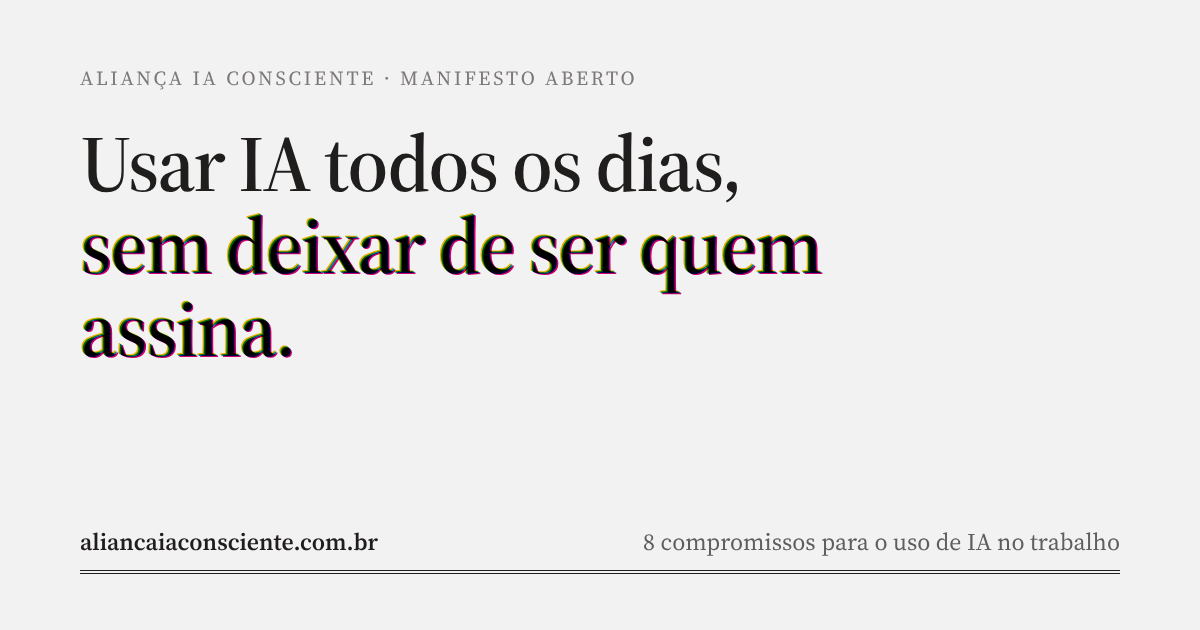
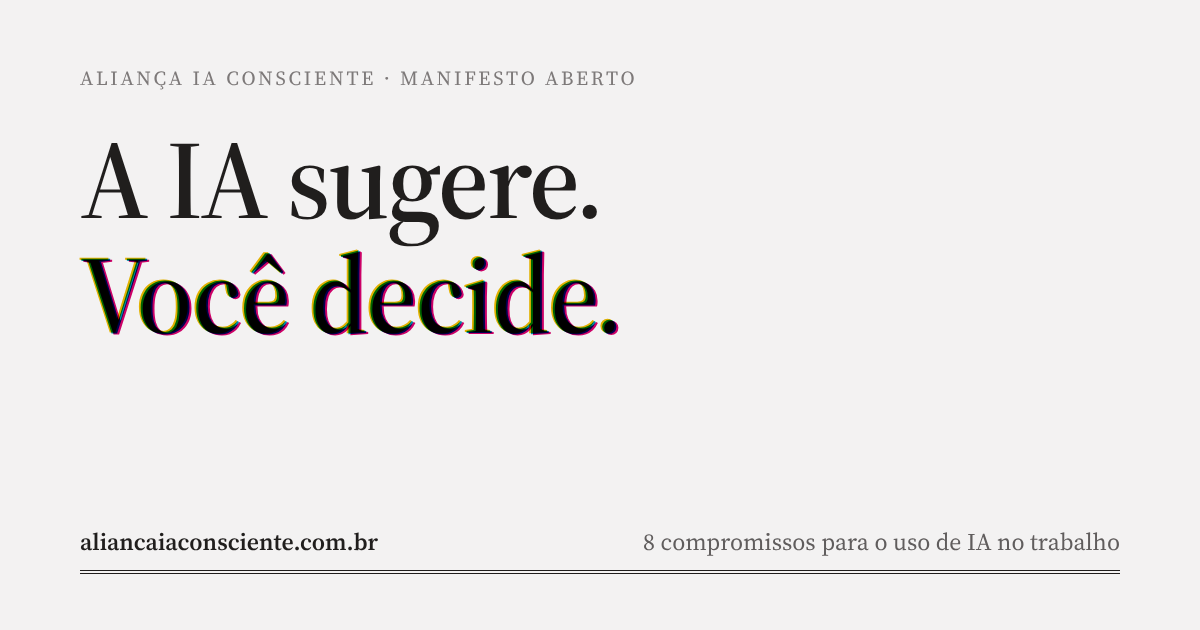
Frase principal: "A IA sugere. Você decide."
- Novo título no topo do site, com o efeito de impressão em
  "Você decide."
- Subtítulo ajustado para não repetir "decide": frequência, método e
  comunicação
- Imagem de compartilhamento, og:description, og:image:alt e JSON-LD
  com a frase nova
- README e MANIFESTO com a frase nova
- Menu no celular: nome numa linha só, sem rolagem lateral de 320 a
  414 px

Claude-Session: https://claude.ai/code/session_017bn4kNo9FBVA544PCgiZbR

Changed region(s): [[0.0617, 0.2111, 0.7092, 0.573]]

diff --git a/site/public/index.html b/site/public/index.html
@@ -16,11 +16,11 @@
 <meta property="og:locale" content="pt_BR">
 <meta property="og:url" content="https://aliancaiaconsciente.com.br/">
 <meta property="og:title" content="Aliança IA Consciente">
-<meta property="og:description" content="Usar IA todos os dias, sem deixar de ser quem assina. Manifesto aberto para adesão de empresas de tecnologia.">
+<meta property="og:description" content="A IA sugere. Você decide. Manifesto aberto para adesão de empresas de tecnologia.">
 <meta property="og:image" content="https://aliancaiaconsciente.com.br/og-image.png">
 <meta property="og:image:width" content="1200">
 <meta property="og:image:height" content="630">
-<meta property="og:image:alt" content="Usar IA todos os dias, sem deixar de ser quem assina. Aliança IA Consciente.">
+<meta property="og:image:alt" content="A IA sugere. Você decide. Aliança IA Consciente.">
 <meta name="twitter:card" content="summary_large_image">
 <meta name="twitter:title" content="Aliança IA Consciente">
 <meta name="twitter:description" content="Oito compromissos para usar IA no trabalho com frequência, método e consciência.">
@@ -51,7 +51,7 @@
       "@type": "CreativeWork",
       "@id": "https://aliancaiaconsciente.com.br/#manifesto",
       "name": "Manifesto da Aliança IA Consciente",
-      "headline": "Usar IA todos os dias, sem deixar de ser quem assina.",
+      "headline": "A IA sugere. Você decide.",
       "url": "https://github.com/marcosmhs/alianca-ia-consciente/blob/main/MANIFESTO.md",
       "inLanguage": "pt-BR",
       "datePublished": "2026-11-02",
@@ -145,7 +145,8 @@ a{color:var(--cyan-text);text-underline-offset:3px}
 .btn:hover{filter:brightness(1.08)}
 .btn:disabled{opacity:.55;cursor:progress}
 .btn.ghost{background:transparent;border-color:transparent;color:var(--cyan-text);padding-inline:6px}
-@media (max-width:720px){ .nav a.link,.nav .btn{display:none} .top-in{flex-wrap:nowrap} }
+@media (max-width:720px){ .nav a.link,.nav .btn{display:none} .top-in{flex-wrap:nowrap} .top-in{gap:8px} .brand{font-size:.95rem;white-space:nowrap} .theme button{padding:4px 6px} }
+@media (max-width:370px){ .top-in{flex-wrap:wrap} .brand{white-space:normal} }
 
 /* Hero */
 .hero{padding-block:88px 40px}
@@ -276,8 +277,8 @@ footer .wrap{display:flex;flex-wrap:wrap;justify-content:space-between;gap:8px 2
   <div class="wrap">
     <section class="hero" aria-labelledby="titulo">
       <p class="eyebrow">Manifesto · Rascunho v0.1 · Aberto para adesão</p>
-      <h1 id="titulo">Usar IA todos os dias, <span class="plates" data-text="sem deixar de ser quem assina.">sem deixar de ser quem assina.</span></h1>
-      <p class="lead">Um compromisso entre empresas de tecnologia para adotar inteligência artificial com frequência, método e consciência, mantendo as pessoas como autoras do que comunicam e responsáveis pelo que decidem.</p>
+      <h1 id="titulo">A IA sugere.<br><span class="plates" data-text="Você decide.">Você decide.</span></h1>
+      <p class="lead">Um compromisso entre empresas de tecnologia para usar inteligência artificial todos os dias, com método e consciência, sem deixar que ela fale pelas pessoas.</p>
       <div class="cta">
         <a class="btn" href="#participar">Inscrever minha empresa</a>
         <a class="btn ghost" href="#compromissos">Ler os oito compromissos</a>

diff --git a/README.md b/README.md
@@ -1,6 +1,6 @@
 # Aliança IA Consciente
 
-**Usar IA todos os dias, sem deixar de ser quem assina.**
+**A IA sugere. Você decide.**
 
 Um compromisso entre empresas de tecnologia para adotar inteligência artificial com frequência, método e consciência, mantendo as pessoas como autoras do que comunicam e responsáveis pelo que decidem.
 

diff --git a/MANIFESTO.md b/MANIFESTO.md
@@ -1,6 +1,6 @@
 # Manifesto da Aliança IA Consciente
 
-**Usar IA todos os dias, sem deixar de ser quem assina.**
+**A IA sugere. Você decide.**
 
 Rascunho v0.1 · Novembro de 2026 · Aberto para adesão
 
